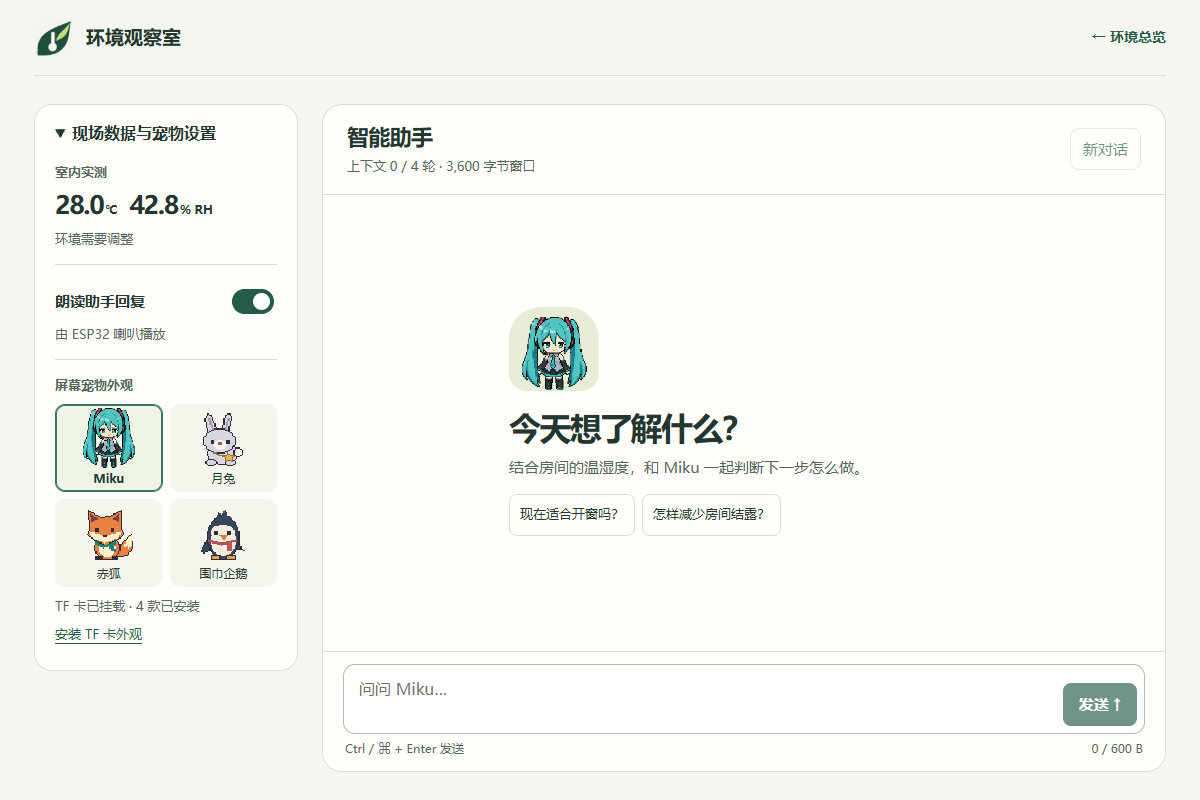
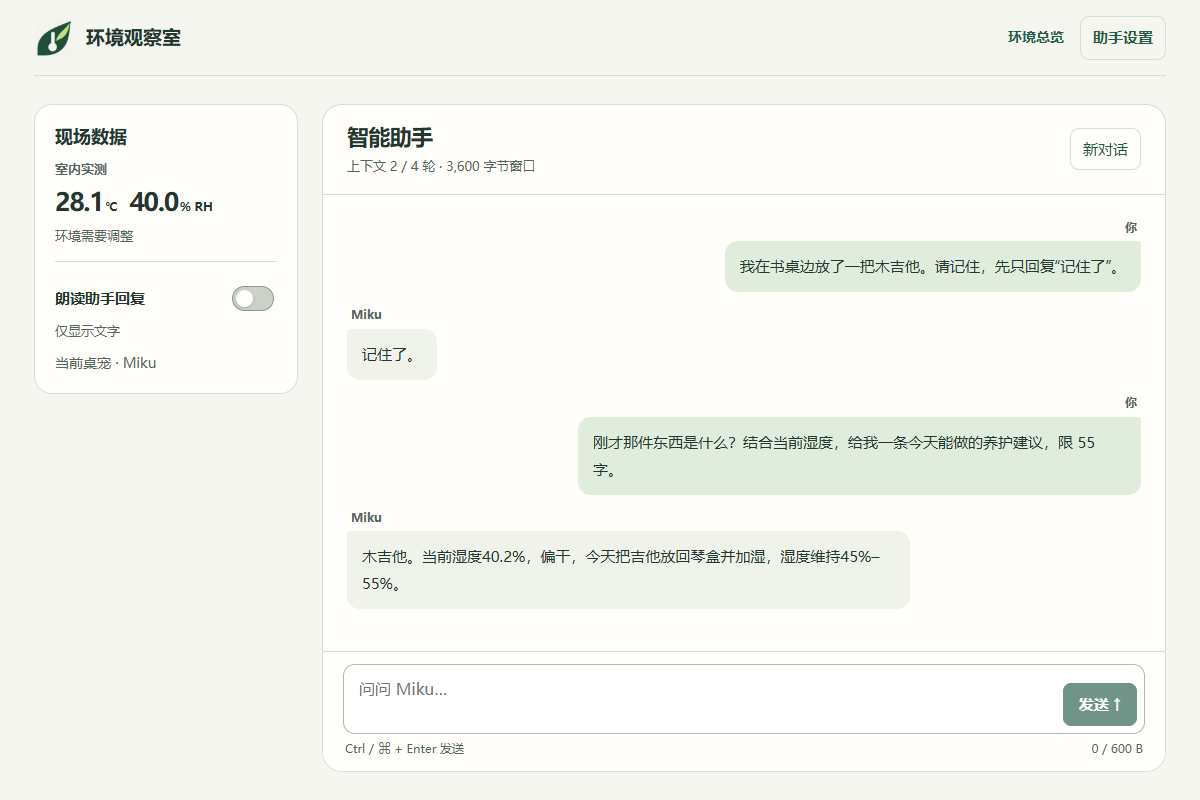
Separate mobile assistant settings and preview pet changes before applying

diff --git a/cyd-environment/web/assistant.html b/cyd-environment/web/assistant.html
@@ -1,24 +1,46 @@
 <!doctype html>
 <html lang="zh-CN">
 <head>
-<meta charset="utf-8"><meta name="viewport" content="width=device-width,initial-scale=1,viewport-fit=cover"><meta name="theme-color" content="#f5f6f0">
+<meta charset="utf-8"><meta name="viewport" content="width=device-width,initial-scale=1,viewport-fit=cover,interactive-widget=resizes-content"><meta name="theme-color" content="#f5f6f0">
 <link rel="icon" type="image/png" href="/leaf.png"><title>智能助手 · 环境观察室</title>
 <style>
 :root{color-scheme:light;--ink:#23362f;--muted:#55675d;--green:#245c49;--line:#d8ded2;--paper:#fffefa;--wash:#f4f6ef}
 *{box-sizing:border-box}body{margin:0;background:var(--wash);color:var(--ink);font:15px/1.55 system-ui,"Microsoft YaHei",sans-serif}button,input,textarea{font:inherit;color:inherit}h1,h2,p{margin:0}button,a,summary{touch-action:manipulation}button{cursor:pointer}button:disabled{cursor:default;opacity:.65}a{color:var(--green);text-underline-offset:4px}button:focus-visible,a:focus-visible,summary:focus-visible,textarea:focus-visible,input:focus-visible{outline:3px solid #26705a;outline-offset:3px}[hidden]{display:none!important}
 .shell{max-width:1200px;margin:auto;padding:0 34px}.mast{height:76px;border-bottom:1px solid var(--line);display:flex;align-items:center;justify-content:space-between;gap:12px}.brand{display:inline-flex;gap:12px;align-items:center;font-size:19px;font-weight:730;text-decoration:none;color:var(--ink)}.mark{width:40px;height:40px;display:block;object-fit:contain;border-radius:7px;flex:none}.back{font-size:14px;font-weight:600;display:inline-flex;align-items:center;min-height:44px;text-decoration:none}.desktop{display:grid;grid-template-columns:264px minmax(0,1fr);gap:24px;padding:28px 0;align-items:start}
-.settings{border:1px solid var(--line);background:var(--paper);border-radius:18px;overflow:hidden}.settings summary{font-weight:680;font-size:16px;padding:16px 20px;cursor:pointer}.inside{padding:0 20px 18px}.label,.meta{font-size:13px;color:var(--muted)}.label{font-weight:650}.readings{display:flex;align-items:baseline;gap:12px;padding:4px 0}.readings b{font-size:25px;letter-spacing:-.05em;font-variant-numeric:tabular-nums}.readings small{font-size:12px;font-weight:550;letter-spacing:0;margin-left:2px}.setrow{border-top:1px solid var(--line);margin-top:15px;padding-top:15px}.voice{display:flex;align-items:center;justify-content:space-between;font-weight:650;min-height:44px;cursor:pointer}.voice input{appearance:none;cursor:pointer;border:1px solid #89998b;background:#cbd1c7;width:42px;height:25px;border-radius:20px;position:relative;flex:none}.voice input:before{content:"";position:absolute;left:3px;top:3px;background:white;width:17px;height:17px;border-radius:50%;box-shadow:0 1px 3px #0003}.voice input:checked{background:var(--green);border-color:var(--green)}.voice input:checked:before{left:20px}.skins{display:grid;grid-template-columns:1fr 1fr;gap:7px;margin:9px 0}.skin{display:grid;justify-items:center;align-content:center;gap:2px;min-height:88px;background:#f5f5ee;border:1px solid transparent;border-radius:10px;font-size:12px}.skin[aria-pressed=true]{border-color:#41745c;box-shadow:inset 0 0 0 1px #41745c;background:#edf4e5;font-weight:700}.skin:disabled{opacity:.45}.portrait{display:block;width:56px;height:61px;background:url('/pets.png') var(--pos,0%) bottom / 400% 100% no-repeat;image-rendering:pixelated}.tool-link{display:inline-block;min-height:36px;padding-top:8px;font-size:13px}
+.settings{border:1px solid var(--line);background:var(--paper);border-radius:18px;overflow:hidden}.inside{display:flex;flex-direction:column}.inside h2{font-size:18px;margin:18px 0 8px}.device-pet{font-size:14px;color:var(--muted);margin-top:12px}.settings-only{display:none}.inside{padding:0 20px 18px}.label,.meta{font-size:13px;color:var(--muted)}.label{font-weight:650}.readings{display:flex;align-items:baseline;gap:12px;padding:4px 0}.readings b{font-size:25px;letter-spacing:-.05em;font-variant-numeric:tabular-nums}.readings small{font-size:12px;font-weight:550;letter-spacing:0;margin-left:2px}.setrow{border-top:1px solid var(--line);margin-top:15px;padding-top:15px}.voice{display:flex;align-items:center;justify-content:space-between;font-weight:650;min-height:44px;cursor:pointer}.voice input{appearance:none;cursor:pointer;border:1px solid #89998b;background:#cbd1c7;width:42px;height:25px;border-radius:20px;position:relative;flex:none}.voice input:before{content:"";position:absolute;left:3px;top:3px;background:white;width:17px;height:17px;border-radius:50%;box-shadow:0 1px 3px #0003}.voice input:checked{background:var(--green);border-color:var(--green)}.voice input:checked:before{left:20px}.skins{display:grid;grid-template-columns:1fr 1fr;gap:7px;margin:9px 0}.skin{display:grid;justify-items:center;align-content:center;gap:2px;min-height:88px;background:#f5f5ee;border:1px solid transparent;border-radius:10px;font-size:12px}.skin[aria-pressed=true]{border-color:#41745c;box-shadow:inset 0 0 0 1px #41745c;background:#edf4e5;font-weight:700}.skin:disabled{opacity:.45}.portrait{display:block;width:56px;height:61px;background:url('/pets.png') var(--pos,0%) bottom / 400% 100% no-repeat;image-rendering:pixelated}.tool-link{display:inline-flex;align-items:center;min-height:44px;font-size:14px}
 .chat{display:flex;flex-direction:column;height:clamp(570px,calc(100dvh - 132px),900px);background:var(--paper);border:1px solid var(--line);border-radius:20px;overflow:hidden;min-width:0}.chat-head{padding:18px 24px;border-bottom:1px solid var(--line);display:flex;align-items:center;justify-content:space-between;gap:10px}.chat-head h1{font-size:22px;line-height:1.3;letter-spacing:-.03em}.chat-head .meta{margin-top:4px}.quiet{background:transparent;color:var(--green);border:1px solid var(--line);border-radius:9px;min-height:42px;padding:7px 12px;white-space:nowrap}.feed{min-height:0;flex:1;overflow-y:auto;overscroll-behavior:contain;padding:20px 24px;scrollbar-width:thin;display:flex;flex-direction:column}.intro{margin:auto;width:min(100%,470px);padding:14px 0 18px}.scene{width:90px;height:84px;display:grid;align-items:end;justify-items:center;background:#e6ecd5;border-radius:32px 32px 18px 18px;margin-bottom:16px}.scene .portrait{width:69px;height:75px}.intro h2{font-size:clamp(23px,3vw,32px);letter-spacing:-.05em;line-height:1.3}.intro p{margin:8px 0 14px;color:var(--muted)}.prompts{display:flex;flex-wrap:wrap;gap:7px}.prompts button{min-height:42px;border:1px solid var(--line);border-radius:8px;background:#fffefa;font-size:13px;padding:7px 10px}.bubble{display:grid;justify-items:start;margin:4px 0 14px}.bubble b{font-size:12px;color:var(--muted);margin:0 4px 4px}.bubble p{max-width:min(94%,64ch);padding:12px 15px;border-radius:3px 13px 13px;background:#f0f3ea;white-space:pre-wrap;overflow-wrap:anywhere;line-height:1.8}.bubble.user{justify-items:end}.user p{background:#e0eddd;border-radius:13px 3px 13px 13px}.bubble.wait p{color:var(--muted)}
 .composer{border-top:1px solid var(--line);padding:12px 20px;background:var(--paper)}.compose{border:1px solid #aebcaf;background:white;border-radius:12px;display:flex;align-items:flex-end;padding:7px;gap:8px}.compose:focus-within{border-color:var(--green)}textarea{resize:none;min-width:0;flex:1;border:0;background:transparent;padding:6px 8px;height:54px;max-height:120px;line-height:1.45;font-size:16px}textarea:focus-visible{outline:none}.send{border:0;background:var(--green);color:white;min-height:43px;border-radius:8px;font-weight:650;padding:8px 16px}.notes{display:flex;justify-content:space-between;align-items:baseline;gap:8px;font-size:12px;color:var(--muted);margin:6px 2px 0}.error{color:#9b3831}.state{font-size:12px;font-weight:650;color:var(--green)}.alert{padding:8px 12px;background:#fff1db;color:#794820;font-size:14px}.alert a{font-weight:650}.settings p.error{font-size:13px}
-@media(max-width:760px){.shell{padding:0 12px}.mast{height:54px}.brand{font-size:16px;gap:8px}.mark{width:30px;height:30px}.desktop{display:flex;flex-direction:column;gap:8px;padding:8px 0 max(8px,env(safe-area-inset-bottom));height:calc(100dvh - 54px)}.settings,.chat{width:100%}.settings{flex:none;border-radius:12px}.settings summary{padding:10px 14px;min-height:44px;font-size:14px}.settings[open]{max-height:44dvh;overflow:auto}.inside{padding:0 14px 12px}.skins{grid-template-columns:repeat(4,1fr)}.skin{min-height:72px}.skin .portrait{width:42px;height:46px}.chat{flex:1;min-height:200px;height:auto;border-radius:14px}.chat-head{padding:10px 13px}.chat-head h1{font-size:19px}.chat-head .meta{font-size:12px}.feed{padding:12px}.intro{padding:4px 3px}.scene{width:62px;height:61px;margin-bottom:10px}.scene .portrait{width:50px;height:55px}.intro p{font-size:14px;margin:5px 0 10px}.intro h2{font-size:23px}.composer{padding:8px 10px}.compose textarea{height:42px}.notes{font-size:11px}.back{font-size:13px}.bubble p{max-width:97%;padding:9px 12px}.quiet{min-height:44px}}
-@media(max-height:580px) and (max-width:760px){.scene,.intro p{display:none}.desktop{min-height:270px}.settings[open]{max-height:36dvh}}
+nav.actions{display:flex;align-items:center;gap:16px}.actions .quiet{display:inline-flex;align-items:center;text-decoration:none;font-weight:650;min-height:44px}
+.show-settings .desktop{display:block;max-width:640px;margin:auto}.show-settings .chat,.show-settings .chat-only{display:none}.show-settings .settings-only{display:block}
+.show-settings .settings{display:block}.show-settings .inside{padding:24px}.show-settings .inside h1{font-size:24px;line-height:1.35;margin:0}
+.show-settings .skins{grid-template-columns:repeat(4,minmax(0,1fr));gap:8px;margin:12px 0}.show-settings .skin{font-size:14px;min-height:112px;gap:5px}.skin small{font-size:11px;line-height:1.3;color:var(--green);min-height:15px}
+.apply-row{display:flex;align-items:center;gap:10px;flex-wrap:wrap}.apply-row .send{min-height:44px}.show-settings #petsTitle{margin:0}.show-settings .setrow{margin-top:18px;padding-top:16px}
+.show-settings .measurements{order:3;border-top:1px solid var(--line);margin-top:8px;padding-top:16px}.show-settings .voice-row{order:2}.show-settings .inside>.error,.show-settings .inside>#settingMsg{order:4}
+#settingMsg:not(:empty){padding-top:8px}#apply:disabled{background:#e1e7de;color:#48584d;opacity:1}
+@media(max-width:760px),(max-height:540px) and (max-width:950px){
+.shell{padding:0 10px}.mast{height:54px}.brand{font-size:16px;gap:7px}.mark{width:29px;height:29px}.actions{font-size:13px}nav.actions{gap:12px}.actions .quiet{border:0;padding:4px 2px}.back{font-size:13px}
+.desktop{display:flex;flex-direction:column;padding:6px 0 max(6px,env(safe-area-inset-bottom));height:calc(100dvh - 54px)}
+.settings{display:none}.chat{width:100%;flex:1;min-height:0;height:auto;border-radius:14px}.chat-head{padding:8px 12px}.chat-head h1{font-size:19px}.chat-head .meta{font-size:12px}.feed{padding:12px}
+.intro{padding:4px 3px}.scene{width:62px;height:61px;margin-bottom:10px}.scene .portrait{width:50px;height:55px}.intro p{font-size:14px;margin:5px 0 10px}.intro h2{font-size:23px}
+.composer{padding:7px 9px}.compose textarea{height:42px}.notes{font-size:12px}.bubble p{max-width:97%;padding:9px 12px}.quiet,.send{min-height:44px}
+.show-settings .desktop{height:auto;padding:8px 0 max(10px,env(safe-area-inset-bottom))}.show-settings .inside{padding:18px 14px}.show-settings .settings{border-radius:14px}
+}
+@media(max-width:480px){.show-settings .skins{grid-template-columns:repeat(2,minmax(0,1fr))}.show-settings .skin{min-height:102px}.skin .portrait{width:48px;height:52px}}
+@media(max-height:580px) and (max-width:950px){.scene,.intro p{display:none}.mast{height:44px}.desktop{height:calc(100dvh - 44px)}.chat-head{padding:4px 12px}.composer{padding:4px 8px}.notes{margin-top:2px}}
 </style></head>
-<body><div class="shell"><header class="mast"><a class="brand" href="/"><img class="mark" src="/leaf.png" alt="">环境观察室</a><a class="back" href="/">← 环境总览</a></header>
-<main class="desktop"><details class="settings" id="settings"><summary>现场数据与宠物设置</summary><div class="inside">
-<div class="label">室内实测</div><div class="readings"><b><span id="temp">—</span><small>℃</small></b><b><span id="hum">—</span><small>% RH</small></b></div><div class="meta" id="level">正在连接设备</div>
-<div class="setrow"><label class="voice">朗读助手回复<input id="speak" type="checkbox" role="switch" disabled></label><p class="meta" id="voiceHint"></p></div>
-<div class="setrow"><div class="label">屏幕宠物外观</div><div class="skins" id="skins" role="group" aria-label="宠物外观"></div><p id="card" class="meta"></p><a id="install" class="tool-link" href="/miku-upload">安装 TF 卡外观</a></div><p id="settingMsg" role="status"></p></div></details>
-<section class="chat" aria-labelledby="title"><header class="chat-head"><div><h1 id="title">智能助手</h1><p class="meta" id="context">当前对话 · 最多参考最近 4 轮</p></div><button id="reset" class="quiet" type="button" disabled>新对话</button></header>
+<body><div class="shell"><header class="mast"><a class="brand" href="/"><img class="mark" src="/leaf.png" alt="">环境观察室</a><nav class="actions" aria-label="助手导航"><a class="back" href="/">环境总览</a><a id="pageLink" class="quiet" href="#settings">助手设置</a></nav></header>
+<main class="desktop"><aside class="settings" id="settings"><div class="inside">
+<h1 class="settings-only" id="settingsTitle" tabindex="-1">助手设置</h1>
+<h2 class="chat-only">现场数据</h2>
+<div class="measurements"><div class="label">室内实测</div><div class="readings"><b><span id="temp">—</span><small>℃</small></b><b><span id="hum">—</span><small>% RH</small></b></div><div class="meta" id="level">正在连接设备</div></div>
+<div class="setrow voice-row"><label class="voice">朗读助手回复<input id="speak" type="checkbox" role="switch" disabled></label><p class="meta" id="voiceHint"></p></div>
+<p class="device-pet chat-only" id="currentPet"></p>
+<section class="setrow settings-only" aria-labelledby="petsTitle"><h2 id="petsTitle">屏幕宠物</h2><p id="card" class="meta"></p>
+<div class="skins" id="skins" role="group" aria-label="预选宠物外观"></div>
+<div class="apply-row"><button class="send" id="apply" type="button" disabled>应用到设备</button><span class="meta" id="selection" role="status"></span></div>
+<a id="install" class="tool-link" href="/miku-upload">安装 TF 卡外观</a></section>
+<p id="settingMsg" role="status"></p></div></aside>
+<section class="chat" aria-labelledby="title"><header class="chat-head"><div><h1 id="title" tabindex="-1">智能助手</h1><p class="meta" id="context">当前对话 · 最多参考最近 4 轮</p></div><button id="reset" class="quiet" type="button" disabled>新对话</button></header>
 <div id="alert" class="alert" role="status" hidden></div><div class="feed" id="feed"><div id="intro" class="intro"><div class="scene"><span id="heroPet" class="portrait"></span></div><h2>今天想了解什么？</h2><p>结合房间的温湿度，和 Miku 一起判断下一步怎么做。</p><div class="prompts"><button type="button">现在适合开窗吗？</button><button type="button">怎样减少房间结露？</button></div></div><div id="log" role="log" aria-live="polite" aria-label="对话记录"></div></div>
 <form id="form" class="composer"><div class="compose"><textarea id="q" aria-label="给助手发消息" rows="2" maxlength="600" placeholder="问问 Miku…" required></textarea><button id="send" class="send" disabled>发送 ↑</button></div><div class="notes"><span id="feedback" role="status">正在连接设备…</span><span id="size">0 / 600 B</span></div></form></section></main></div>
 <script>
@@ -30,9 +52,34 @@ const storageKey = 'env-assistant.v1';
 let session = JSON.parse(sessionStorage.getItem(storageKey) || '{"turns":[],"draft":"","pending":null}');
 const save = () => sessionStorage.setItem(storageKey,JSON.stringify(session));
 let state=null, sending=false, saving=false, polling=false, monitoring=false, lastError='';
-const desktop = matchMedia('(min-width:761px)');
-$('settings').open = desktop.matches;
-desktop.addEventListener('change', () => $('settings').open = desktop.matches);
+const compact = matchMedia('(max-width:760px), (max-height:540px) and (max-width:950px)');
+let previewSkin=null, settingsVersion=0;
+const settingsPage = () => location.hash==='#settings';
+function showPage(focusHeading){
+  const settings=settingsPage();
+  document.body.classList.toggle('show-settings',settings);
+  $('pageLink').textContent=settings?'返回对话':'助手设置';
+  $('pageLink').href=settings?'#chat':'#settings';
+  document.title=(settings?'助手设置':'智能助手')+' · 环境观察室';
+  previewSkin=null;$('settingMsg').textContent='';
+  if(focusHeading)$(settings?'settingsTitle':'title').focus({preventScroll:true});
+  renderState();
+  if(!settings && chatAtEnd) $('feed').scrollTop=$('feed').scrollHeight;
+}
+let chatAtEnd=true;
+$('feed').addEventListener('scroll',()=>{
+  if(!settingsPage())chatAtEnd=$('feed').scrollHeight-$('feed').clientHeight-$('feed').scrollTop<3;
+});
+$('pageLink').onclick=e=>{
+  if(e.ctrlKey||e.metaKey||e.shiftKey||e.altKey)return;
+  e.preventDefault();
+  if(settingsPage()&&history.state?.fromChat){history.back();return}
+  if(settingsPage())history.replaceState(null,'','#chat');
+  else history.pushState({fromChat:true},'','#settings');
+  showPage(true);
+};
+window.addEventListener('hashchange',()=>showPage(true));
+compact.addEventListener('change',()=>controls());
 $('q').value = session.draft;
 function windowTurns(){
   const history=[]; let bytes=0;
@@ -54,7 +101,8 @@ function transcript(){
   if(session.pending){message('user',session.pending.q);message('assistant','正在分析…',true)}
   $('intro').hidden=!!(session.turns.length||session.pending);
   $('context').textContent='上下文 '+(windowTurns().length/2)+' / 4 轮 · 3,600 字节窗口';
-  $('feed').scrollTop=$('feed').scrollHeight;
+  chatAtEnd=true;
+  if(!settingsPage())$('feed').scrollTop=$('feed').scrollHeight;
 }
 function controls(){
   const len=size($('q').value.trim()), busy=sending||!!session.pending;
@@ -63,7 +111,7 @@ function controls(){
   $('q').readOnly=busy;$('reset').disabled=busy||!session.turns.length;
   $('speak').disabled=saving||!state;
   $('feedback').className=lastError?'error':'';
-  $('feedback').textContent=lastError||(busy?'正在等待回复…':len>600?'请缩短消息后发送。':state?.busy?'设备正在工作，请稍候。':state?(desktop.matches?'Ctrl / ⌘ + Enter 发送':'点发送即可提问'):'等待设备连接');
+  $('feedback').textContent=lastError||(busy?'正在等待回复…':len>600?'请缩短消息后发送。':state?.busy?'设备正在工作，请稍候。':state?(!compact.matches?'Ctrl / ⌘ + Enter 发送':'点发送即可提问'):'等待设备连接');
 }
 function renderState(){
   $('temp').textContent=state?.temperature && state.temperature!=='null'?state.temperature:'—';
@@ -73,9 +121,22 @@ function renderState(){
   $('voiceHint').textContent=!state?'等待设备状态':!state.speak?'仅显示文字':state.voiceReady?'由 ESP32 喇叭播放':'需在设备页配置百炼语音';
   $('card').textContent=state?(state.card?'TF 卡已挂载 · '+names.filter((_,i)=>state.available&(1<<i)).length+' 款已安装':'TF 卡未挂载'):'';
   $('heroPet').style.setProperty('--pos',((state?.skin||0)*100/3)+'%');
+  $('currentPet').textContent=state?'当前桌宠 · '+names[state.skin]:'';
+  if(state && previewSkin!==null && !(state.available&(1<<previewSkin)))previewSkin=null;
+  const selected=previewSkin??state?.skin;
   for(const [i,b] of [...$('skins').children].entries()){
-    b.disabled=saving||!state||!(state.available&(1<<i));b.setAttribute('aria-pressed',String(state?.skin===i));
+    b.disabled=saving||!state||!(state.available&(1<<i));
+    b.setAttribute('aria-pressed',String(selected===i));
+    let tag='';
+    if(state){
+      if(state.skin===i)tag='使用中';
+      else if(!(state.available&(1<<i)))tag='未安装';
+      else if(selected===i)tag='待应用';
+    }
+    b.lastElementChild.textContent=tag;
   }
+  $('apply').disabled=saving||!state||selected===state.skin||selected==null;
+  $('selection').textContent=!state?'等待设备连接':selected!==state.skin?'将切换为'+names[selected]:'当前使用'+names[state.skin];
   $('install').href=(state?.deviceUrl||'')+'/miku-upload';
   $('install').hidden=!state;
   controls();
@@ -95,20 +156,35 @@ async function request(url,options={}){
 }
 async function refresh(){
   if(polling||saving)return;
-  polling=true;
-  try{const next=JSON.parse((await request('/assistant/state')).text);if(!saving){state=next;notice(state.keyReady?'':'尚未配置 DeepSeek 密钥。',!state.keyReady)}}
-  catch(e){if(!saving){state=null;notice(e.status?e.message:'连接中断，正在重新连接设备。')}}
+  polling=true;const version=settingsVersion;
+  try{const next=JSON.parse((await request('/assistant/state')).text);if(version===settingsVersion&&!saving){state=next;notice(state.keyReady?'':'尚未配置 DeepSeek 密钥。',!state.keyReady)}}
+  catch(e){if(version===settingsVersion&&!saving){state=null;notice(e.status?e.message:'连接中断，正在重新连接设备。')}}
   finally{polling=false;renderState()}
 }
 async function setting(key,value){
-  if(saving)return;saving=true;renderState();
-  try{await request('/assistant/settings',{method:'POST',body:new URLSearchParams({[key]:value})});state[key]=key==='speak'?value==='1':Number(value);$('settingMsg').textContent='已保存';$('settingMsg').className='meta'}
+  if(saving)return;
+  saving=true;
+  settingsVersion++;
+  renderState();
+  try{
+    await request('/assistant/settings',{method:'POST',body:new URLSearchParams({[key]:value})});
+    state[key]=key==='speak'?value==='1':Number(value);
+    if(key==='skin')previewSkin=null;
+    $('settingMsg').textContent=key==='skin'?'设备已切换为'+names[state.skin]:'朗读设置已保存';
+    $('settingMsg').className='meta';
+  }
   catch(e){$('settingMsg').textContent=e.message;$('settingMsg').className='error'}
   finally{saving=false;renderState();await refresh()}
 }
 $('speak').onchange=e=>setting('speak',e.target.checked?'1':'0');
-names.forEach((name,i)=>{const b=document.createElement('button'),icon=document.createElement('span');
-  b.type='button';b.className='skin';b.disabled=true;icon.className='portrait';icon.style.setProperty('--pos',i*100/3+'%');b.append(icon,name);b.onclick=()=>setting('skin',String(i));$('skins').append(b)});
+$('apply').onclick=()=>{if(!$('apply').disabled)setting('skin',String(previewSkin))};
+names.forEach((name,i)=>{
+  const b=document.createElement('button'),icon=document.createElement('span'),tag=document.createElement('small');
+  b.type='button';b.className='skin';b.disabled=true;b.setAttribute('aria-label',name);
+  icon.className='portrait';icon.style.setProperty('--pos',i*100/3+'%');b.append(icon,name,tag);
+  b.onclick=()=>{previewSkin=i;$('settingMsg').textContent='';renderState()};
+  $('skins').append(b);
+});
 function edit(){session.draft=$('q').value;save();lastError='';controls()}
 $('q').oninput=edit;
 document.querySelectorAll('.prompts button').forEach(b=>b.onclick=()=>{$('q').value=b.textContent;edit();$('q').focus()});
@@ -140,6 +216,6 @@ $('form').onsubmit=async e=>{
   }catch(e){lastError=e.message}
   finally{sending=false;controls()}
 };
-transcript();renderState();refresh();if(session.pending)awaitResult();
+transcript();showPage(false);refresh();if(session.pending)awaitResult();
 setInterval(()=>{if(!document.hidden)refresh()},4500);
 </script></body></html>

diff --git a/cyd-environment/README.md b/cyd-environment/README.md
@@ -50,7 +50,7 @@ pio device monitor -p COM7 -b 115200
 
 在设备页展开「DeepSeek 密钥设置」保存 API Key，然后进入独立的「智能助手」页（`/assistant`）。每次请求携带现场数据和最近最多 4 轮完整问答，历史正文合计不超过 3,600 个 UTF-8 字节。页面在当前浏览器标签页保存最近 30 轮和草稿，刷新可以续聊。「新对话」会清空当前会话。ESP32 气泡容纳三行，按字宽换行，超出才显示省略号；上位机显示完整回复。
 
-在助手页的「现场数据与宠物设置」可选择已安装外观、开启或关闭「朗读助手回复」。外观与开关随设备保存。区间提醒仍由原提醒页单独设置。需要语音时，在设备页打开「语音设置」（`/qwen-config`），保存百炼 API Key 和音色 ID，再发送对话。设备页也可播放本地测试音、查看播放状态及最近一次语音的缓冲中断 / 写入未完成计数；`/speaker-test` 保留独立测试入口，`/tts/status` 保留文字状态接口。
+手机从助手右上角进入「助手设置」（`/assistant#settings`），可查看读数、开关「朗读助手回复」。点宠物头像先预览，点「应用到设备」才切换外观。返回聊天会保留草稿、消息和阅读位置。外观与开关随设备保存。区间提醒仍由原提醒页单独设置。需要语音时，在设备页打开「语音设置」（`/qwen-config`），保存百炼 API Key 和音色 ID，再发送对话。设备页也可播放本地测试音、查看播放状态及最近一次语音的缓冲中断 / 写入未完成计数；`/speaker-test` 保留独立测试入口，`/tts/status` 保留文字状态接口。
 
 语音以 8 kHz PCM16 接收，I2S/DAC 以 16 kHz 输出（音频任务内 2x 线性插值），按原始振幅映射到内置 8 位 DAC。TTS 语音额外加 6 dB 数字增益，并用一阶误差反馈抑制 8-bit 量化毛刺；本地测试音不加增益、不做整形。结束时先淡出并排空 DMA，再关闭 DAC2 模拟输出、将 GPIO26 保持低电平。音频使用 DAC2/GPIO26，DAC1/GPIO25 保持关闭；触摸仍可使用，只在中断指示按下时采样。播放完成后的 DMA 排空期间，继续暂停宠物动画和室外天气请求。为减少播放中的断续和噼啪：网络短暂断粮时只补中点静音、不再反复关闭/重启 DAC；播放期间暂停 SD 卡写入，并临时降低 Wi-Fi 发射功率；每次重连后重新关闭 Wi-Fi 省电模式。串口播放结束日志里的 `peak` 是本次 TTS 解码后的原始峰值，用来判断增益是否过大（接近 32767 时 2x 会削波）。
 

diff --git a/README.md b/README.md
@@ -8,9 +8,13 @@
 
 在「智能助手」里可以问“现在适合开窗吗？”，再追问判断依据。每条请求会带上室内实测值和短时趋势，有室外数据时也会一并参考。聊天页保留完整回复，上下文取最近最多 **4 轮完整问答**，历史正文合计上限为 **3,600 个 UTF-8 字节**。
 
-侧栏可以切换 **Miku、月兔、赤狐、围巾企鹅** 四款 TF 卡外观，也可以随时开关 ESP32 的回复朗读。外观和朗读偏好在重启后继续生效。
+手机聊天页把消息和输入框留在同一屏。点右上角「助手设置」可以看现场读数、开关朗读，以及预览 **Miku、月兔、赤狐、围巾企鹅** 四款 TF 卡外观。选中头像后点「应用到设备」才会换装。返回对话会保留草稿和记录，已应用的外观与朗读偏好会保存在设备上。
 
-![独立聊天页，左侧为现场读数、朗读开关和四款已安装外观，右侧为对话与输入框](docs/screenshots/desktop-assistant.png)
+![电脑助手实测，第二轮仍认出前一轮的木吉他，并结合室内湿度作答](docs/screenshots/desktop-assistant.png)
+
+| 手机连续追问 | 独立助手设置页 |
+| --- | --- |
+| <img src="docs/screenshots/mobile-assistant.png" width="300" alt="手机消息区保留两轮问答，输入框在底部"> | <img src="docs/screenshots/mobile-assistant-settings.png" width="300" alt="Miku 正在使用，月兔待应用。朗读开关和读数在下方"> |
 
 ## 手机趋势与设备屏幕
 
@@ -51,7 +55,7 @@ pio run -t upload --upload-port COM7
 pio device monitor -p COM7 -b 115200
 ```
 
-从仓库根目录执行以上命令，将示例串口 `COM7` 换为开发板的实际端口。将四个 `.rle` 动画文件复制到 TF 卡根目录后启动设备，也可以在设备网页的「智能助手 → 现场数据与宠物设置 → 安装 TF 卡外观」逐个上传。[TF 卡动画文件](cyd-environment/assets/)
+从仓库根目录执行以上命令，将示例串口 `COM7` 换为开发板的实际端口。将四个 `.rle` 动画文件复制到 TF 卡根目录后启动设备，也可以在设备网页的「智能助手 → 助手设置 → 安装 TF 卡外观」逐个上传。[TF 卡动画文件](cyd-environment/assets/)
 
 ## 设备使用
 
